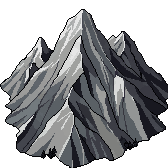
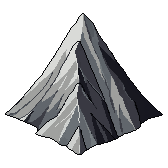
Mountains: ten free-standing pieces, and the straight edges are gone
The peaks are regenerated as free-standing objects — each one floating in
its own frame with empty transparent margin on all four sides — and the
result is the first render of this arc with no straight edge anywhere at
play zoom. Four mountains, four soft foothills, two ground lines: ten
pieces, and that is the whole kit.

The low bands now stand at the MOUNTAIN'S OWN FOOT rather than at their
own column's southern edge. Reading their own edge put them a hundred
pixels below the rock they were meant to be covering with open grass in
between; a foothill has to be told where the ground is by the mountain it
belongs to. They also need a real overlap with that mountain — half their
span under it — or one ends up marooned on the grass beside it.

Every piece that could not pass the door is deleted: the flat tops, the
plateaus, the clipped summits and the frame-cropped rock, along with the
saddles and the rolling band. The loader refuses all three failure modes
now, so none of them can come back through the same door.

diff --git a/js/render.js b/js/render.js
@@ -4234,17 +4234,26 @@ const R = {
            behind it; the same for the rolling rises and for the ground line.
            Placed across the whole footprint instead they carpet open grass
            and the range reads as a debris field with a few peaks in it. */
+        /* …AND IT STANDS AT THE MOUNTAIN'S OWN FOOT, not at its own column's
+           southern edge. Reading its own edge put the foothills a hundred
+           pixels below the peaks they were meant to be covering, with open
+           grass in between: the rock a low piece belongs to is the only
+           thing that can tell it where the ground is. */
+        let hugFy = -1;
         if (kind !== 'peak' && kind !== 'saddle') {
-          let behind = false;
           for (const q of plan) {
             if (q.kind !== 'peak' && q.kind !== 'saddle') continue;
             const qs = q.tx, qe = q.tx + Math.round(q.piece.w / CFG.TILE);
-            if (x < qe && x + span > qs) { behind = true; break; }
+            /* a real overlap, not a touch: half this piece's span has to
+               stand under the mountain, or a foothill ends up marooned out
+               on the grass beside one */
+            const ov = Math.min(x + span, qe) - Math.max(x, qs);
+            if (ov >= span * 0.5 && q.fy > hugFy) hugFy = q.fy;
           }
-          if (!behind) { x += 1; continue; }
+          if (hugFy < 0) { x += 1; continue; }
         }
         if (kind === 'peak') nPeaks++;
-        plan.push({ piece, kind, tx: x, fy: fy + 1, up: rank.up, front: kind === 'foot' || rank === bands[bands.length - (foots ? 2 : 1)] });
+        plan.push({ piece, kind, tx: x, fy: hugFy >= 0 ? hugFy : fy + 1, up: rank.up, front: kind === 'foot' || rank === bands[bands.length - (foots ? 2 : 1)] });
         prevSaddle = (kind === 'saddle');
         any = true; slot++;
         /* the step is measured on the piece's TORN width — the tear takes
